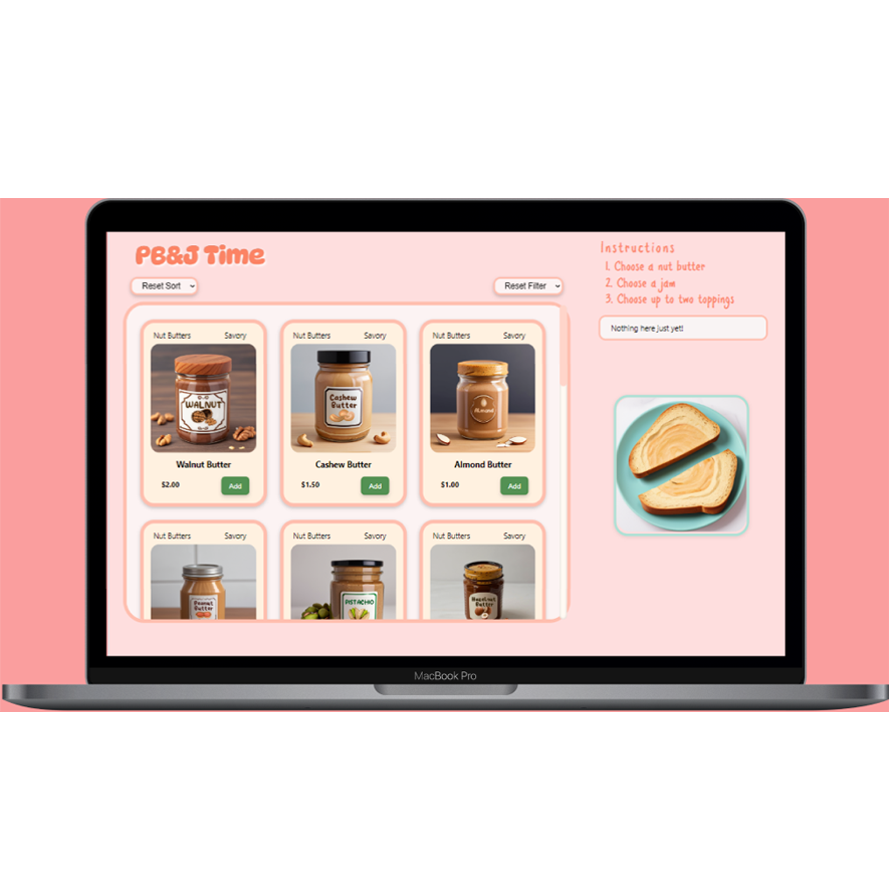
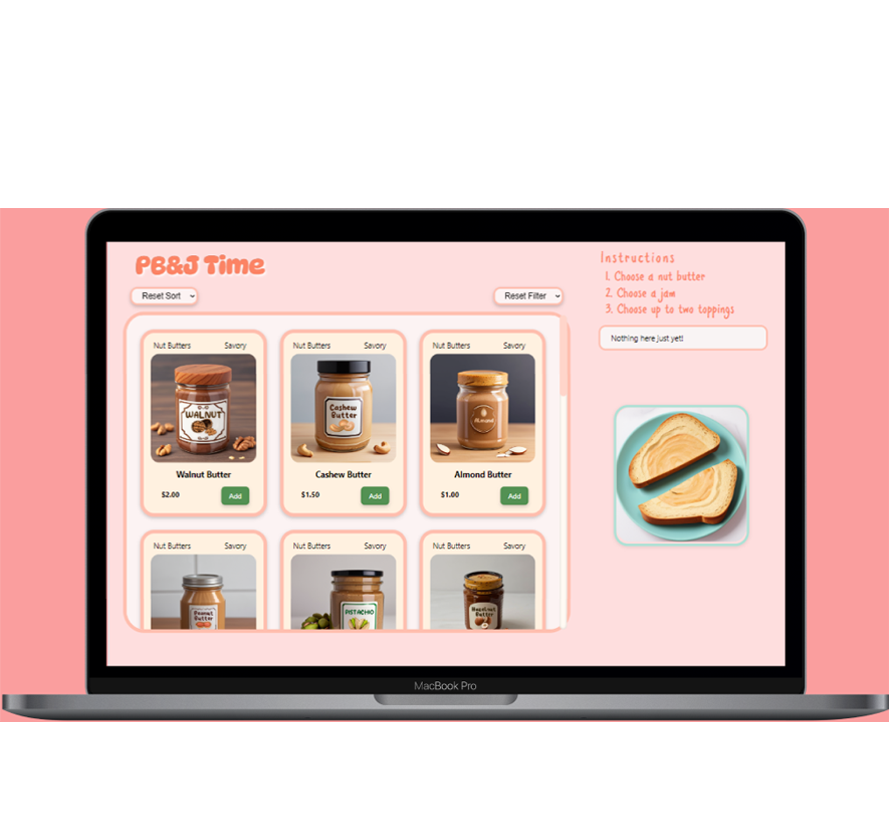
Fix: resolution project card images

diff --git a/src/pages/projects/projects.css b/src/pages/projects/projects.css
@@ -39,7 +39,7 @@
     display: flex;
     justify-content: center;
     align-items: center;
-    margin: 1rem 0;
+    margin: 0;
 }
 
 .preview-image img {
